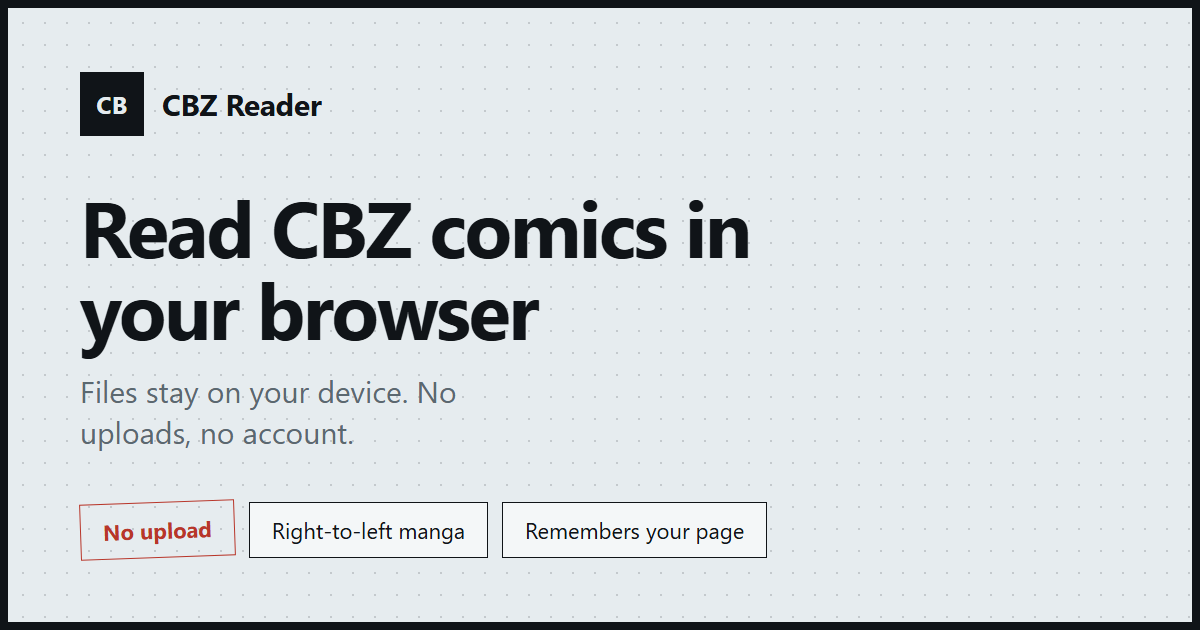
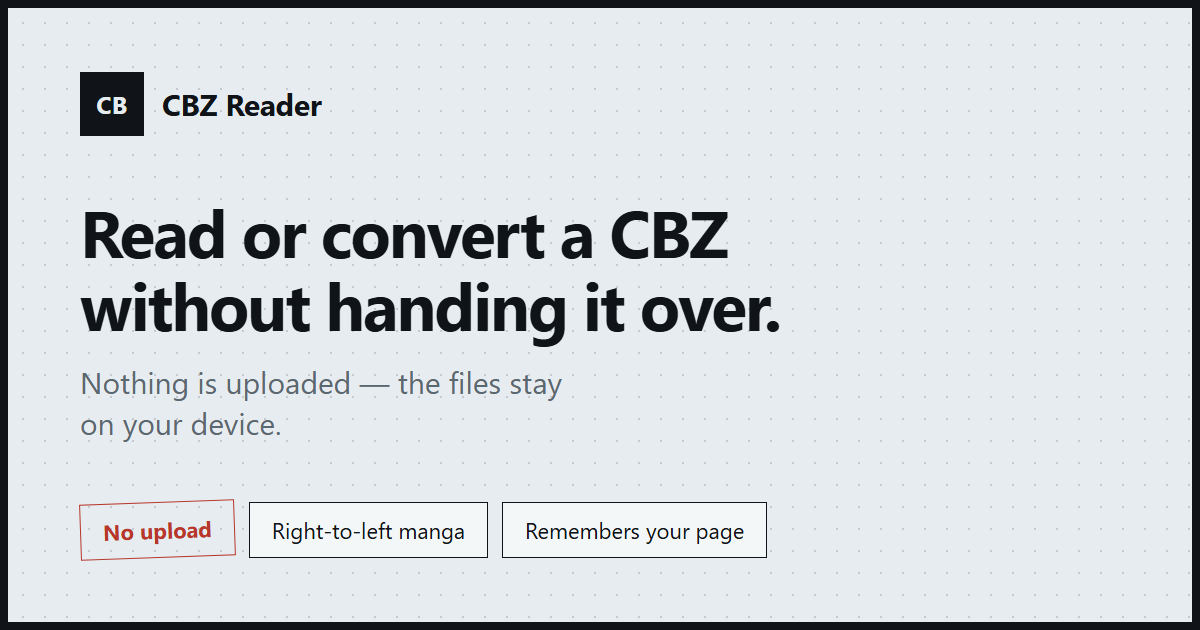
m content

Changed region(s): [[0.0617, 0.3016, 0.6475, 0.4222], [0.0617, 0.4524, 0.6475, 0.573], [0.0617, 0.573, 0.4625, 0.7238]]

diff --git a/src/i18n/locales/ja.ts b/src/i18n/locales/ja.ts
@@ -185,7 +185,7 @@ export const jaPrivateProcess: PageContent = {
   path: '/ja/private-process/',
   title: 'ローカル処理 - タブの中で実際に起きていること',
   description:
-    '書庫はこのタブで展開され、ページはここでデコードされ、PDF もここで書き出されます。起きないこと、起きること、そして1分で確かめる方法。',
+    '書庫はこのタブで展開され、ページはここでデコードされ、PDF もここで書き出されます。この処理が何を排除し、何を排除しないのか、そして1分で確かめる方法。',
   h1: 'ローカル処理であって、サービスではない',
   eyebrow: '中身の話',
   lead: '以下のことはすべてこのタブの中で起きます。ファイルを受け取る相手がそもそもいません。',
@@ -202,8 +202,8 @@ export const jaPrivateProcess: PageContent = {
     {
       heading: '他のツールにサーバーが要る理由',
       paragraphs: [
-        'アップロード型の変換ツールは同じ形をしている。書庫がタブを離れ、ライブラリとメモリを持つマシンが受け取り、リンクが戻ってくる。目の前のブラウザはバイトを運ぶだけだ。',
-        'その形が、読者が何を得るかを決めてしまう。写しは他人が管理するハードウェアに残り、消すかどうかは相手が決める。キャッシュやログに、さらに長く残ることもある。容量は割り当てられ、大きなファイルほどアカウントや有料プランが必要になりがちだ。そしてサービスが明日も存在しないと、道具として使えない。悪意の話ではない。サーバーを間に挟むと、そうなる。',
+        'アップロード型のサイトは逆の向きに動く。書庫はタブを離れ、必要なライブラリとメモリを備えたマシンに渡り、最後にリンクが戻ってくる。目の前のページは、ファイルを送り出すだけだ。',
+        '写しは他人が管理するハードウェアに残り、消すかどうかは相手が決める。キャッシュやログに、さらに長く残ることもある。サーバーの容量にはコストがかかるので、大きなファイルほどアカウントや有料プランが必要になることが多い。そしてサービスが明日も存在しないと、道具として使えない。悪意の話ではない。サーバーを間に挟むと、そうなる。',
       ],
     },
     {
@@ -231,14 +231,14 @@ export const jaPrivateProcess: PageContent = {
       ],
     },
     {
-      heading: 'タブの境界',
+      heading: 'タブの境界（プライバシーの詳細）',
       paragraphs: [
-        'このサイトにもサーバーと請求書があるので、ブラウザの外に出るものが三つある。どれもファイルを含まない。',
+        'このサイトにもサーバーと請求書があるので、タブの外で起きる小さなことが三つある。どれにもファイルは含まれない。',
       ],
       bullets: [
-        'Cloudflare が接続を受け、リクエストのメタデータ（IPアドレス、ユーザーエージェント、ページURL）を見る。',
-        'Umami にはアクセスや変換ごとに1件のイベントが届く。イベント名、ページのパス、ページ数や所要時間といったカウンタ。',
-        'ブラウザのストレージには言語の選択と閲覧位置が残る。サイトデータを消せば両方消える。',
+        'Cloudflare（CDN）：IPアドレスやブラウザの種類など、リクエストの基本情報を見る（ファイルは見ない）。',
+        'Umami（アクセス解析）：アクセスや変換ごとにイベントを1件受け取るが、ファイルのデータは含まれない。',
+        'ブラウザのストレージ：言語の選択と閲覧位置を端末内に保存する。サイトデータを消せばどちらも消える。',
       ],
     },
     {

diff --git a/src/i18n/locales/zh.ts b/src/i18n/locales/zh.ts
@@ -184,7 +184,7 @@ export const zhPrivateProcess: PageContent = {
   path: '/zh/private-process/',
   title: '本地处理 - 标签页里究竟发生了什么',
   description:
-    '压缩包在这个标签页里解开，页面在这里解码，PDF 也在这里写出。哪些事因此不会发生，哪些仍会发生，以及怎么用一分钟自己验证。',
+    '压缩包在这个标签页里解开，页面在这里解码，PDF 也在这里写出。这个流程排除了什么、没排除什么，以及怎么用一分钟自己验证。',
   h1: '是本地处理，不是一个在线服务',
   eyebrow: '打开盖子看看',
   lead: '下面这些事都发生在这个标签页里，没有另一头可以接收文件。',
@@ -201,8 +201,8 @@ export const zhPrivateProcess: PageContent = {
     {
       heading: '别家为什么非上传不可',
       paragraphs: [
-        '上传式转换器都长成同一个形状：压缩包离开标签页，一台有库、有余量的机器把它接过去，最后回来一个链接。你面前的浏览器只负责搬字节。',
-        '这个形状决定了读者拿到什么。副本留在别人控制的机器上，删不删、什么时候删由对方决定——常常更久，缓存或日志里还会再留一份。容量是配给的，文件一大就容易要求账号或付费档位。而且服务明天必须还在，这个工具才算能用。这不是谁存心使坏，是中间放一台服务器必然的结果。',
+        '上传型网站正好相反：你的压缩包离开标签页，去一台装了相应软件、内存也够用的机器上，最后回来一个链接。你面前的页面只负责把文件送出去。',
+        '副本留在别人控制的机器上，删不删、什么时候删由对方决定——常常更久，缓存或日志里还会再留一份。服务器容量是要花钱的，所以文件一大，通常就要求有账号或付费档位。而且服务明天必须还在，这个工具才算能用。这不是谁存心使坏，是中间放一台服务器必然的结果。',
       ],
     },
     {
@@ -230,14 +230,14 @@ export const zhPrivateProcess: PageContent = {
       ],
     },
     {
-      heading: '标签页的边界在哪',
+      heading: '标签页的边界在哪（隐私细节）',
       paragraphs: [
-        '这个站仍然有服务器和账单，所以有三样东西会离开浏览器。它们都不包含你的文件。',
+        '这个站仍然有服务器和账单，所以有三件小事发生在标签页之外。它们都不包含你的文件。',
       ],
       bullets: [
-        'Cloudflare 负责接收连接，能看到请求的元数据：IP 地址、User-Agent、页面地址。',
-        'Umami 每次访问或转换收到一条事件，里面有事件名、页面路径，以及页数、耗时之类的计数。',
-        '浏览器存储里存着语言选择和阅读进度，清除站点数据就都没了。',
+        'Cloudflare（CDN）：能看到请求的基本信息，比如 IP 地址和浏览器类型（但从不涉及你的文件）。',
+        'Umami（统计）：每次访问或转换收到一条事件，但不涉及任何文件数据。',
+        '浏览器存储：把语言选择和阅读进度存在本地，清除站点数据就都没了。',
       ],
     },
     {

diff --git a/src/content/pages.ts b/src/content/pages.ts
@@ -794,8 +794,8 @@ export const PAGES: PageContent[] = [
       {
         heading: 'Why the other tools need a server',
         paragraphs: [
-          'An upload-based converter has a shape: the archive leaves the tab, a machine with the libraries and the memory to do the work picks it up, and a link comes back. The browser in front of you only moves bytes.',
-          'That shape decides what the reader gets. A copy sits on hardware someone else controls and stays there until they decide to delete it — often longer, in a cache or a log. Capacity is rationed, so large files tend to need an account or a paid tier. And the service has to still exist tomorrow for the tool to work at all. None of that is bad faith; it is what putting a server in the middle produces.',
+          'An upload site works the other way round. Your archive leaves the tab, goes to a machine with the software and the memory for the job, and a link comes back. The page in front of you only passes the file along.',
+          'A copy sits on hardware someone else controls and stays there until they decide to delete it — often longer, in a cache or a log. Because server capacity costs money, large files usually require an account or a paid tier. And the service still has to exist tomorrow for the tool to work at all. None of that is bad faith; it is what putting a server in the middle produces.',
         ],
       },
       {
@@ -826,14 +826,14 @@ export const PAGES: PageContent[] = [
         ],
       },
       {
-        heading: 'Where the tab ends',
+        heading: 'Where the tab ends (Privacy details)',
         paragraphs: [
-          'This site still has a host and a bill, so three things leave the browser. None of them contains your file.',
+          'This site still has a host and a bill, so three minor things happen outside the tab. None of them contains your file.',
         ],
         bullets: [
-          'Cloudflare terminates the connection and sees request metadata: IP address, user agent, page URL.',
-          'Umami gets one event per visit or conversion, with an event name, the page path, and counters such as page count or time taken.',
-          'Browser storage keeps your language choice and reading progress. Clearing site data removes both.',
+          'Cloudflare (CDN): Sees basic request data like IP address and browser type (but never your files).',
+          'Umami (Analytics): Gets one event per visit or conversion, but no file data.',
+          'Browser Storage: Saves your language choice and reading progress locally. Clearing site data removes both.',
         ],
       },
       {
